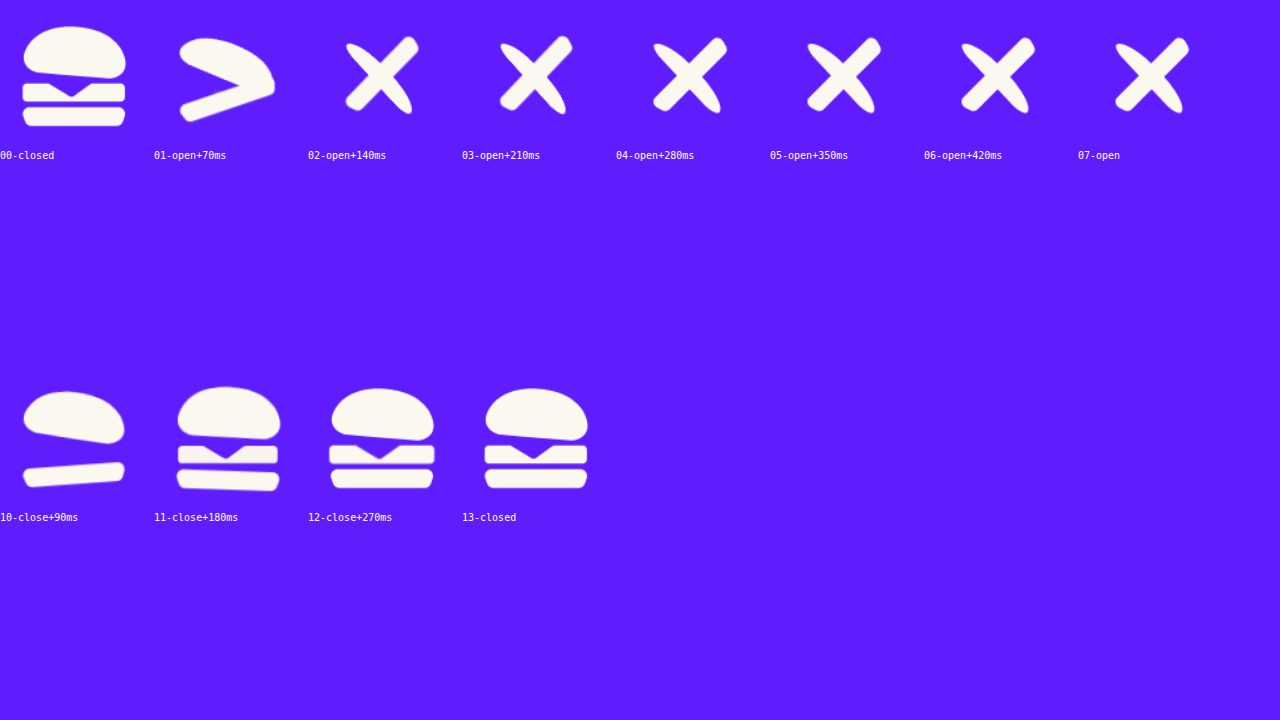
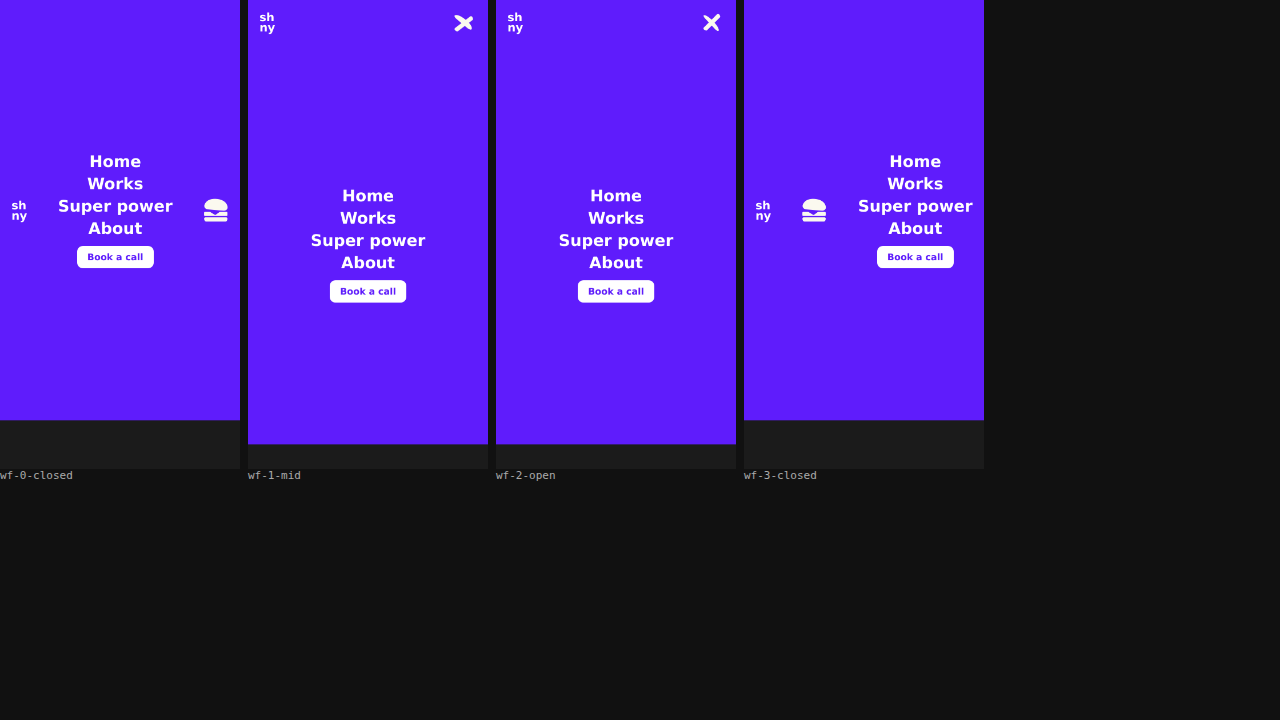
Make the menu toggle follow Webflow's navbar instead of fighting it
Dropped into a Webflow Navbar the icon was toggling itself while Webflow
toggled the navbar, so the two disagreed and the icon stuck half-open, with
Webflow's own X still sitting next to it.

Inside a navbar the icon is now passive: the click passes through to Webflow's
button and the icon mirrors that button's w--open class and the menu's
data-nav-menu-open attribute. Outside one it still drives itself.

Also hides Webflow's default menu icon and centres the open menu, measuring the
navbar so the menu centres in the remaining screen rather than in a full-height
box that hangs off the bottom.

Claude-Session: https://claude.ai/code/session_01EN2H8V1CJXCgaG1j6ayRrd

diff --git a/menu-toggle/menu-toggle.html b/menu-toggle/menu-toggle.html
@@ -1,13 +1,14 @@
 <!--
-  Burger -> X menu toggle. Paste the whole thing into a Webflow Embed (or any HTML page).
+  Burger -> X menu toggle. Paste the whole thing into a Webflow Embed, inside the Navbar's
+  menu button (Navbar > Menu Button). It works anywhere else too.
 
-  - The button drives itself: clicking it toggles .is-open and keeps aria-expanded in sync.
-  - If it sits inside Webflow's built-in Navbar menu button, it also follows that button's
-    own .w--open class, so the icon stays right even when Webflow opens the menu.
-  - Point it at your own menu with data-burger-target="#nav" to get .is-open on that too,
-    or listen for the burger:toggle event.
+  Inside a Webflow Navbar it makes itself passive: Webflow keeps handling the click, and the
+  icon just mirrors the navbar's open state, so the two never fight over it. On a plain page
+  it drives itself instead, toggling .is-open and keeping aria-expanded in sync.
 
   Restyle with the custom properties on .burger: --size, --color, --speed.
+  The second <style> block at the bottom is the navbar layout - delete it if you don't
+  want it.
 -->
 <style>
   .burger {
@@ -18,7 +19,7 @@
     display: inline-flex;
     align-items: center;
     justify-content: center;
-    padding: 8px;
+    padding: 0;
     border: 0;
     background: none;
     cursor: pointer;
@@ -32,6 +33,8 @@
     outline-offset: 4px;
     border-radius: 6px;
   }
+  /* inside Webflow's menu button the click belongs to Webflow, so let it pass through */
+  .burger.is-passive { pointer-events: none; cursor: inherit; }
   .burger svg { width: var(--size); height: auto; display: block; overflow: visible; }
   .burger svg path {
     fill: var(--color);
@@ -47,19 +50,13 @@
   .burger .base  { transition-delay: 0ms; }
 
   /* opening: the filling shoots out first, then the buns cross */
-  .burger.is-open .patty,
-  .w--open .burger .patty { transition-delay: 0ms; }
+  .burger.is-open .patty { transition-delay: 0ms; }
   .burger.is-open .bun,
-  .burger.is-open .base,
-  .w--open .burger .bun,
-  .w--open .burger .base { transition-delay: 70ms; }
+  .burger.is-open .base  { transition-delay: 70ms; }
 
-  .burger.is-open .bun,
-  .w--open .burger .bun   { transform: translate(-.7px, 9.7px) rotate(45deg) scale(.92, .36); }
-  .burger.is-open .base,
-  .w--open .burger .base  { transform: translate(.3px, -17px) rotate(-45deg) scaleX(.92); }
-  .burger.is-open .patty,
-  .w--open .burger .patty { transform: scale(.15); opacity: 0; }
+  .burger.is-open .bun   { transform: translate(-.7px, 9.7px) rotate(45deg) scale(.92, .36); }
+  .burger.is-open .base  { transform: translate(.3px, -17px) rotate(-45deg) scaleX(.92); }
+  .burger.is-open .patty { transform: scale(.15); opacity: 0; }
 
   @media (prefers-reduced-motion: reduce) {
     .burger, .burger svg path { transition-duration: 1ms; transition-delay: 0ms; }
@@ -76,16 +73,54 @@
 
 <script>
 (function () {
+  function setOpen(btn, open) {
+    btn.classList.toggle('is-open', open);
+    btn.setAttribute('aria-expanded', String(open));
+    btn.setAttribute('aria-label', open ? 'Close menu' : 'Open menu');
+  }
+
   document.querySelectorAll('[data-burger]').forEach(function (btn) {
+    var nav = btn.closest('.w-nav');
+    var wfBtn = nav && nav.querySelector('.w-nav-button');
+
+    if (wfBtn) {
+      // --- inside a Webflow Navbar: Webflow owns the click, we only follow along ---
+      if (wfBtn.contains(btn)) {
+        btn.classList.add('is-passive');           // let the click reach Webflow's button
+        btn.setAttribute('tabindex', '-1');
+        btn.setAttribute('aria-hidden', 'true');
+      } else {
+        btn.addEventListener('click', function () { wfBtn.click(); });
+      }
+
+      var menu = nav.querySelector('.w-nav-menu');
+      var sync = function () {
+        setOpen(btn, wfBtn.classList.contains('w--open') ||
+                     !!(menu && menu.hasAttribute('data-nav-menu-open')));
+      };
+      new MutationObserver(sync).observe(wfBtn, { attributes: true, attributeFilter: ['class'] });
+      if (menu) { new MutationObserver(sync).observe(menu, { attributes: true }); }
+      sync();
+
+      // the overlay starts below the navbar, so the menu centres in what is left of the
+      // screen rather than in a full-height box that hangs off the bottom
+      var setNavHeight = function () {
+        document.documentElement.style.setProperty('--nav-h', nav.offsetHeight + 'px');
+      };
+      setNavHeight();
+      window.addEventListener('resize', setNavHeight);
+      return;
+    }
+
+    // --- anywhere else: the button drives itself ---
     btn.addEventListener('click', function () {
-      var open = btn.classList.toggle('is-open');
-      btn.setAttribute('aria-expanded', String(open));
-      btn.setAttribute('aria-label', open ? 'Close menu' : 'Open menu');
+      var open = !btn.classList.contains('is-open');
+      setOpen(btn, open);
 
       var sel = btn.getAttribute('data-burger-target');
       if (sel) {
-        var menu = document.querySelector(sel);
-        if (menu) { menu.classList.toggle('is-open', open); }
+        var target = document.querySelector(sel);
+        if (target) { target.classList.toggle('is-open', open); }
       }
       btn.dispatchEvent(new CustomEvent('burger:toggle', {
         bubbles: true, detail: { open: open }
@@ -94,3 +129,26 @@
   });
 })();
 </script>
+
+<!-- Navbar layout: hides Webflow's own menu icon and centres the open menu. Delete this
+     block to leave your navbar exactly as it is. 991px is Webflow's tablet breakpoint,
+     where the navbar collapses. -->
+<style>
+  .w-nav-button .w-icon-nav-menu { display: none !important; }
+  .w-nav-button { display: inline-flex; align-items: center; justify-content: center; }
+
+  @media screen and (max-width: 991px) {
+    .w-nav-overlay { height: auto; }
+    .w-nav-overlay .w-nav-menu,
+    .w-nav[data-collapse] .w-nav-menu {
+      display: flex;
+      flex-direction: column;
+      align-items: center;
+      justify-content: center;
+      gap: 6px;
+      min-height: calc(100vh - var(--nav-h, 0px));
+      min-height: calc(100dvh - var(--nav-h, 0px));
+      text-align: center;
+    }
+  }
+</style>

diff --git a/menu-toggle/README.md b/menu-toggle/README.md
@@ -15,14 +15,19 @@ swing across each other. Closing runs it in reverse, with the filling dropping b
 ## Use the HTML one
 
 Paste `menu-toggle.html` into an Embed. That is the whole install — it carries its own CSS,
-markup and a few lines of JS.
+markup and a few lines of JS, and it adapts to where you put it.
 
-- The button toggles `.is-open` on itself and keeps `aria-expanded` and its label in sync.
-- Add `data-burger-target="#nav"` to put `.is-open` on your menu as well, or listen for the
-  `burger:toggle` event (`e.detail.open`).
-- Inside Webflow's built-in Navbar, drop it into the menu button: the CSS also reacts to the
-  `w--open` class Webflow puts on that button, so the icon follows the navbar even when
-  Webflow is the one opening the menu.
+**Inside Webflow's Navbar** (Navbar > Menu Button) it makes itself passive: Webflow keeps
+handling the click and the icon only mirrors the navbar's open state, watching both the
+`w--open` class on the menu button and the `data-nav-menu-open` attribute on the menu. Two
+things fighting over one button is what makes these icons stick half-open, so the icon never
+toggles itself there. It also hides Webflow's own menu icon and centres the open menu, using
+the measured navbar height so the menu centres in the screen that is left rather than in a
+full-height box hanging off the bottom. Delete the second `<style>` block to skip that part.
+
+**Anywhere else** the button drives itself: it toggles `.is-open`, keeps `aria-expanded` and
+its label in sync, and fires a `burger:toggle` event (`e.detail.open`). Add
+`data-burger-target="#nav"` to put `.is-open` on your menu too.
 - Restyle through `--size`, `--color` and `--speed` on `.burger`.
 - `prefers-reduced-motion` is honoured: the state still changes, it just doesn't animate.
 
